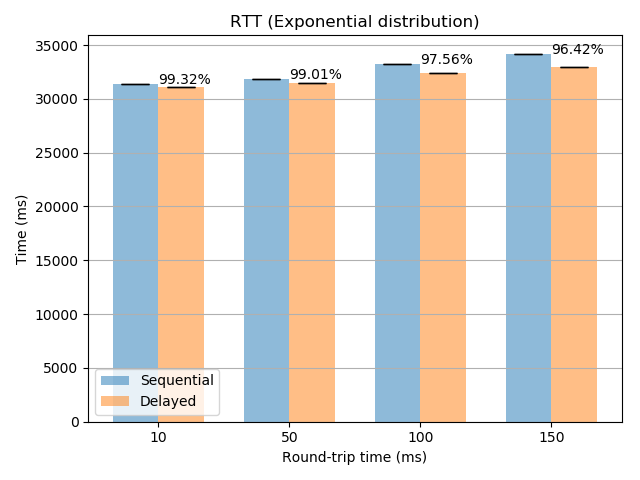
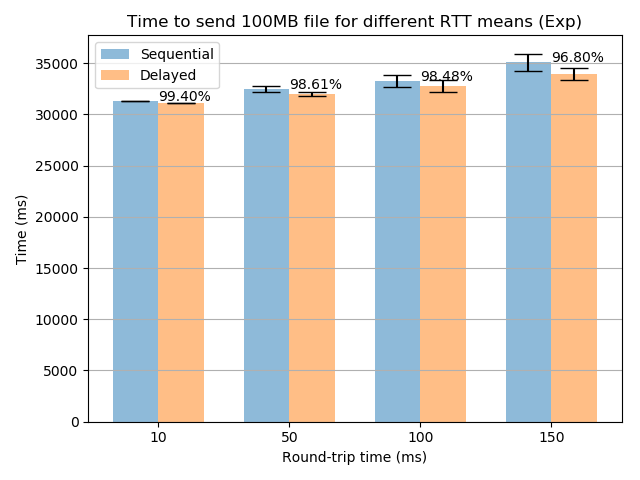
fixed some text in graphs

diff --git a/main/mainfile.py b/main/mainfile.py
@@ -15,7 +15,7 @@ if __name__ =='__main__':
     my_path = os.path.abspath(__file__)
 
     #ARGUMENTS
-    repetitions = 1
+    repetitions = 5
     chunksizes = [1,4,5,8]
     means = [(10,8.8), (50,44), (100,88), (150,132)]
     #stddevs = [8.8, 44, 88, 132]
@@ -352,7 +352,7 @@ if __name__ =='__main__':
     ax.set_xticks(x_pos + width / 2)
     #ax.set_xticklabels(titles)
     ax.set_xticklabels(chunksizes)
-    ax.set_title('Chunksizes')
+    ax.set_title('Time to send 100MB file for different chunk sizes')
     ax.yaxis.grid(True)
     ax.legend((chunkseqbar[0], chunkdelbar[0]), ('Sequential', 'Delayed'))
     for a,b,c in zip(x_pos + (width / 2), chunkdel, chunkdif):
@@ -404,13 +404,13 @@ if __name__ =='__main__':
     #ax.set_xticklabels(titles)
 
     ax.set_xticklabels(np.take(bandwith, indices))
-    ax.set_title('Bandwith')
+    ax.set_title('Time to send 100MB file for different bandwidth values')
     ax.yaxis.grid(True)
     ax.legend((bandwithseqbar[0], bandwithdelbar[0]), ('Sequential', 'Delayed'))
     # Save the figure and show
     for a,b,c in zip(x_pos + (width / 2), bandwithdel, bandwithdif):
         plt.text(a, b, c)
-    plt.xlabel("Bandwith (mpbs)")
+    plt.xlabel("Bandwidth (mbps)")
     plt.tight_layout()
     plt.savefig('graphs/bandwith_seq_del_graph(inc2).png')
     #plt.show()
@@ -487,11 +487,16 @@ if __name__ =='__main__':
     rttdifexp = np.array(rttdifexp)
 
     print(titles)
-    print("rtt seq means" , rttseqmeans)
-    print("rtt del means", rttdelmeans)
-    print("rtt seq std", rttseqstds)
-    print("rtt del std", rttdelstds)
+    print("rtt seq means norm" , rttseqmeans)
+    print("rtt del means norm", rttdelmeans)
+    print("rtt seq stds norm", rttseqstds)
+    print("rtt del stds norm", rttdelstds)
 
+
+    print("rtt seq means exp" , rttseqmeansexp)
+    print("rtt del means exp", rttdelmeansexp)
+    print("rtt seq stds exp", rttseqstdsexp)
+    print("rtt del stds exp", rttdelstdsexp)
 
     x_pos = np.arange(len(rttseqmeans))
     width = 0.35 #width of the bars
@@ -502,7 +507,7 @@ if __name__ =='__main__':
     ax.set_xticks(x_pos + width / 2)
     #ax.set_xticklabels(titles)
     ax.set_xticklabels(('10', '50', '100', '150'))
-    ax.set_title('RTT (Normal Distribution)')
+    ax.set_title('Time to send 100MB file for different RTT means (Norm)')
     ax.yaxis.grid(True)
     ax.legend((seqbar[0], delbar[0]), ('Sequential', 'Delayed'))
     for a,b,c in zip(x_pos + (width / 2), rttseqmeans, rttdif):
@@ -523,7 +528,7 @@ if __name__ =='__main__':
     ax.set_xticks(x_pos + width / 2)
     #ax.set_xticklabels(titles)
     ax.set_xticklabels(('10', '50', '100', '150'))
-    ax.set_title('RTT (Exponential distribution)')
+    ax.set_title('Time to send 100MB file for different RTT means (Exp)')
     ax.yaxis.grid(True)
     ax.legend((seqbar[0], delbar[0]), ('Sequential', 'Delayed'))
     for a,b,c in zip(x_pos + (width / 2), rttseqmeansexp, rttdifexp):
